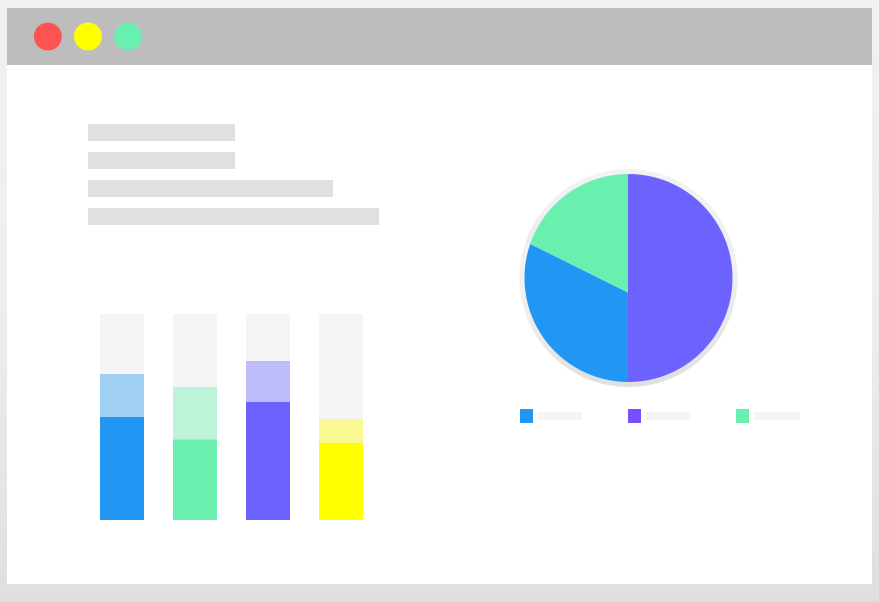
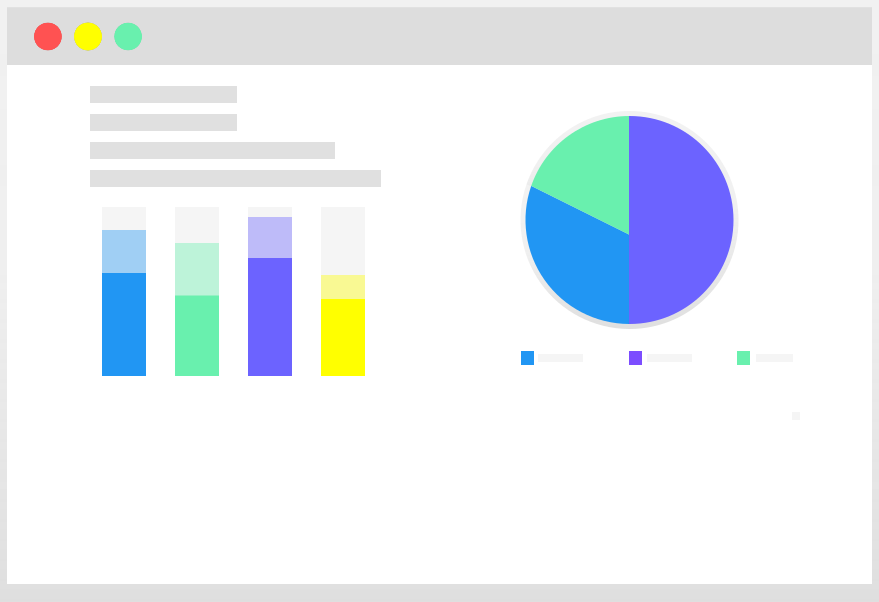
Alterações sections home/projeto

diff --git a/site-institucional/css/style-index.css b/site-institucional/css/style-index.css
@@ -19,7 +19,7 @@ html {
 
 .imagem-home{
     width: 50%;
-    height: 60%;
+    height: 40%;
     align-self: flex-end;
     background: url(../img/undraw_charts_jj6t.png);
     background-size: cover;
@@ -181,7 +181,7 @@ html {
     width: 90%;
     height: 100%;
     align-self: center;
-    background: url(../img/undraw_data_xmfy.png);
+    background: url(../img/undraw_data_trends_b0wg.png);
     background-size: cover;
     position: relative;
 }
